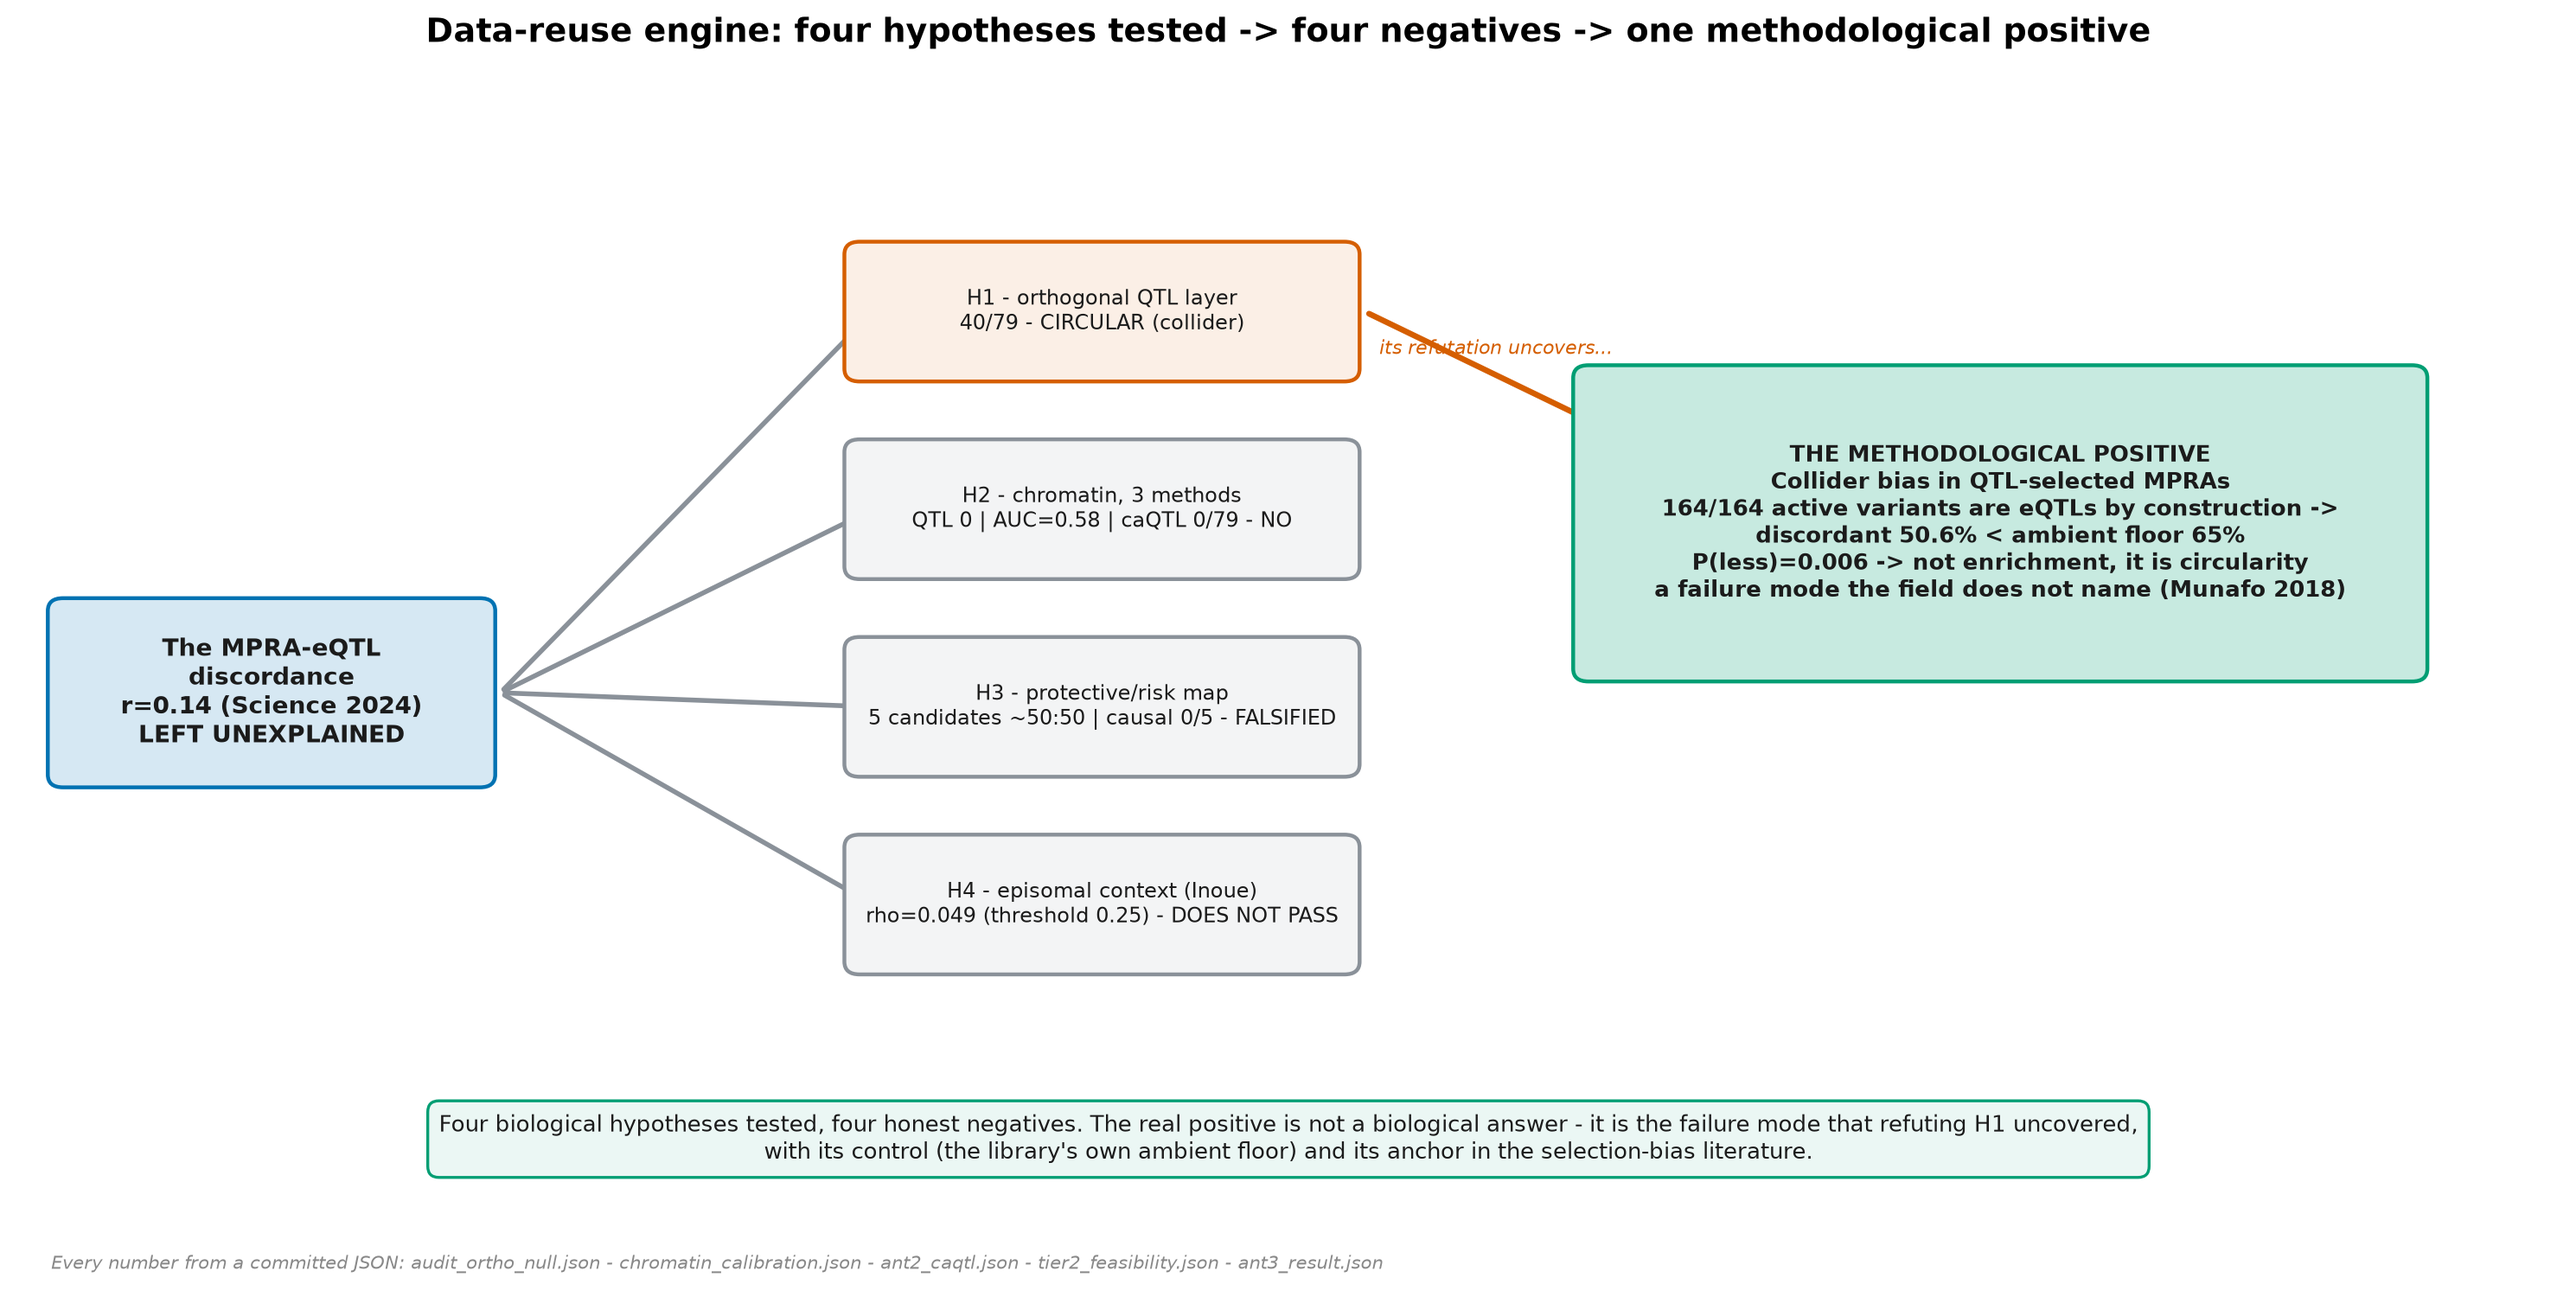
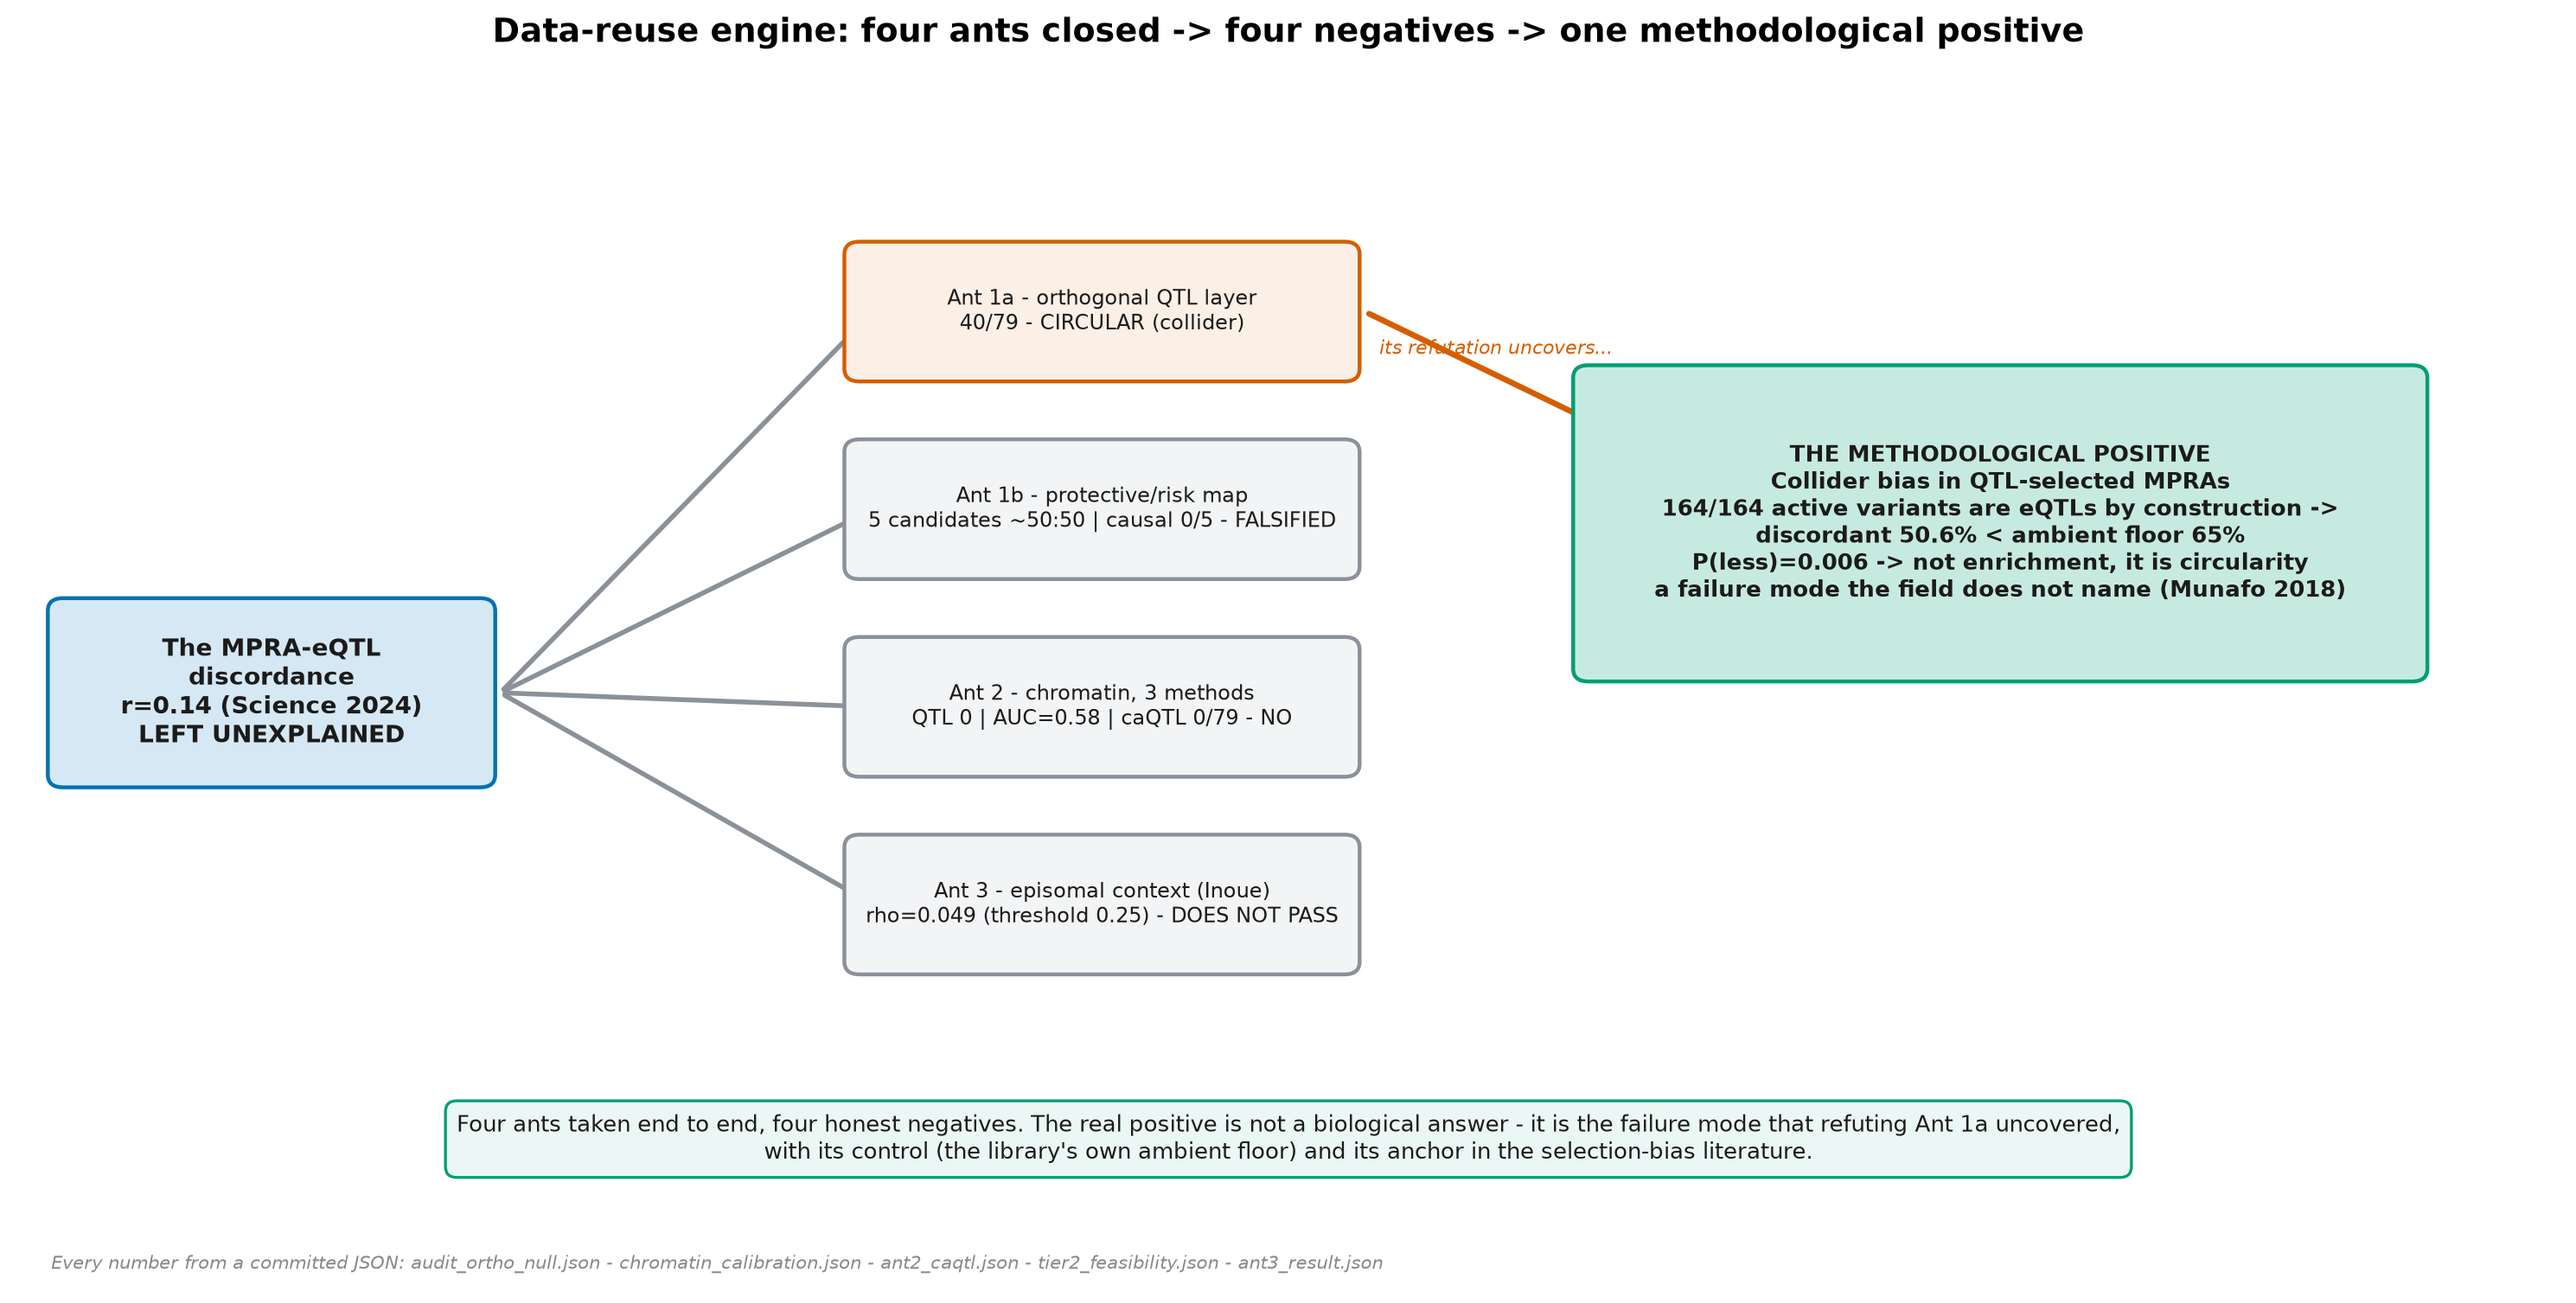
the engine says what it discards, and the funnel says which ant
The name carries both readings now: Descartes for de omnibus dubitandum, and
the discards for what the engine actually produces — most of its output is the
part it threw away.

Three corrections the pre-public audit raised:
  * the funnel figure labelled its boxes H1-H4 while the case study calls them
    ants 1a, 1b, 2 and 3, so a reader could not map one onto the other;
  * the honest-scope bullet and the adoption guide explained the domain layer
    by pointing at "phase 7", which means nothing to a reader who has not read
    the protocol yet;
  * the executor was told to record a known confounder in a ledger this engine
    never defines, creates or ships.

Claude-Session: https://claude.ai/code/session_01SiaMkmZoD2JUUQRNtfKeRj

diff --git a/examples/mpra-eqtl-discordance/figures/figure_funnel.py b/examples/mpra-eqtl-discordance/figures/figure_funnel.py
@@ -23,7 +23,7 @@ BLUE,GREEN,VERM,GRAY="#0072B2","#009E73","#D55E00","#8a9199"; INK="#1b1b1b"
 def tint(hx,a=0.16):
     r,g,b=int(hx[1:3],16),int(hx[3:5],16),int(hx[5:7],16); return (1-a+a*r/255,1-a+a*g/255,1-a+a*b/255)
 fig,ax=plt.subplots(figsize=(15,7.8)); ax.set_xlim(0,15); ax.set_ylim(0,8.2); ax.axis("off")
-fig.suptitle("Data-reuse engine: four hypotheses tested -> four negatives -> one methodological positive",
+fig.suptitle("Data-reuse engine: four ants closed -> four negatives -> one methodological positive",
              fontsize=13.5,fontweight="bold",y=0.99)
 def box(xc,yc,w,h,t,fc,ec,fs=9,bold=False,tc=INK):
     ax.add_patch(FancyBboxPatch((xc-w/2,yc-h/2),w,h,boxstyle="round,pad=0.02,rounding_size=0.09",
@@ -39,17 +39,17 @@ box(1.5,4.2,2.6,1.3,"The MPRA-eQTL\ndiscordance\nr=0.14 (Science 2024)\nLEFT UNE
 # four hypotheses, all negative (middle column)
 xh=6.4
 hyps=[
- (6.9, f"H1 - orthogonal QTL layer\n{disc_hit}/{disc_n} - CIRCULAR (collider)"),
- (5.5, f"H2 - chromatin, 3 methods\nQTL 0 | AUC={auc:.2f} | caQTL {ca_hit}/{ca_n} - NO"),
- (4.1, f"H3 - protective/risk map\n{nprot} candidates ~50:50 | causal {mr}/{nprot} - FALSIFIED"),
- (2.7, f"H4 - episomal context (Inoue)\nrho={rho:.3f} (threshold 0.25) - DOES NOT PASS"),
+ (6.9, f"Ant 1a - orthogonal QTL layer\n{disc_hit}/{disc_n} - CIRCULAR (collider)"),
+ (5.5, f"Ant 1b - protective/risk map\n{nprot} candidates ~50:50 | causal {mr}/{nprot} - FALSIFIED"),
+ (4.1, f"Ant 2 - chromatin, 3 methods\nQTL 0 | AUC={auc:.2f} | caQTL {ca_hit}/{ca_n} - NO"),
+ (2.7, f"Ant 3 - episomal context (Inoue)\nrho={rho:.3f} (threshold 0.25) - DOES NOT PASS"),
 ]
 for y,t in hyps:
     arrow(2.85,4.2,xh-1.35,y,GRAY)
     ec=VERM if y==6.9 else GRAY
     box(xh,y,3.0,0.95,t,tint(ec,0.10),ec,fs=8.6)
 
-# the refutation of H1 uncovers the positive
+# the refutation of ant 1a uncovers the positive
 arrow(7.95,6.9,9.5,6.0,VERM,lw=2.4,lab="its refutation uncovers...")
 box(11.7,5.4,5.0,2.2,
     f"THE METHODOLOGICAL POSITIVE\nCollider bias in QTL-selected MPRAs\n"
@@ -59,12 +59,12 @@ box(11.7,5.4,5.0,2.2,
     tint(GREEN,0.22),GREEN,fs=9.2,bold=True)
 
 # footer note
-ax.text(7.5,0.9,"Four biological hypotheses tested, four honest negatives. The real positive is not a biological answer - "
-        "it is the failure mode that refuting H1 uncovered,\nwith its control (the library's own ambient floor) and its anchor in the selection-bias literature.",
+ax.text(7.5,0.9,"Four ants taken end to end, four honest negatives. The real positive is not a biological answer - "
+        "it is the failure mode that refuting Ant 1a uncovered,\nwith its control (the library's own ambient floor) and its anchor in the selection-bias literature.",
         ha="center",fontsize=9.3,color=INK,
         bbox=dict(boxstyle="round,pad=0.5",facecolor=tint(GREEN,0.08),edgecolor=GREEN,lw=1.2))
 ax.text(0.2,0.12,"Every number from a committed JSON: audit_ortho_null.json - chromatin_calibration.json - ant2_caqtl.json - tier2_feasibility.json - ant3_result.json",
         fontsize=7.4,color="#888",style="italic")
 fig.tight_layout(rect=[0,0.03,1,0.97])
 fig.savefig(OUT,dpi=200,bbox_inches="tight",facecolor="white")
-print(f"wrote {OUT}  (H1 {disc_hit}/{disc_n} circular; H2 AUC={auc:.2f}/caQTL {ca_hit}/{ca_n}; H3 MR {mr}/{nprot}; H4 ρ={rho:.3f}; collider P={Pcoll:.3f})")
+print(f"wrote {OUT}  (1a {disc_hit}/{disc_n} circular; 1b MR {mr}/{nprot}; 2 AUC={auc:.2f}/caQTL {ca_hit}/{ca_n}; 3 ρ={rho:.3f}; collider P={Pcoll:.3f})")

diff --git a/README.md b/README.md
@@ -1,4 +1,4 @@
-# Descartes
+# Descartes — *the discards*
 
 **A discovery engine for data reuse.** Take public data that already exists, and produce a closed, reproducible finding the original study left open — one hypothesis at a time, with every finding verified real-vs-false before it is believed.
 
@@ -96,7 +96,7 @@ Then pre-register your first ant in `ANT_REGISTRY.md` **before touching any data
 
 **ANT** is the engine. An **ant** is one unit of its work: a single hypothesis taken end to end, pre-registered before the data is touched and closed either positive or negative-diagnostic. One ant at a time — never five half-done.
 
-**Descartes** is the executor's proper name, after *de omnibus dubitandum* — everything must be doubted.
+**Descartes** is the executor's proper name, after *de omnibus dubitandum* — everything must be doubted. In Spanish, *descartes* also reads as **the discards**: what a hand throws away. Both readings are the engine — it doubts everything it produces, and most of what it produces is what it discarded.
 
 ---
 
@@ -104,7 +104,7 @@ Then pre-register your first ant in `ANT_REGISTRY.md` **before touching any data
 
 - **This is an orchestration pattern with a human in the loop**, not an autonomous research system. The human supplies domain judgement and decides which hypothesis is worth running.
 - **The engine finds nothing by itself.** It tests what it is given and refuses to believe the result too early. Most of its outputs are negatives, and that is the point.
-- **The domain layer does not transfer.** Phase 7 — turning a table into something that means something in your field — is the human's contribution, and the protocol assumes it exists.
+- **Translating a verified table into a finding that means something in your field is the human's job**, not the engine's. The engine closes the loop; it does not know what the result means in your discipline.
 - **Two search passes reduce error; they do not eliminate it.** There could always be a third layer.
 
 ## License

diff --git a/agents/data-reuse-discovery-ant.md b/agents/data-reuse-discovery-ant.md
@@ -120,7 +120,7 @@ Order is the safeguard (never overrideable — it is the whole point):
 1. **Form your OWN independent view FIRST** — run your pass and decide what YOU find worth pursuing, WITHOUT looking at the other agent. Independent doubt is your value; if you read theirs first, your agreement means nothing.
 2. **THEN read the peer workspace, if one is configured for this project.** Best-effort: if no peer is configured, or the path is absent/empty, note it in `OPEN_QUESTIONS.md` (BLOCKED → future work) and continue — it is never a dependency that stalls the loop (Freeze scope, TOP RULE 9).
 3. **Contrast, do not copy.** Mark where you CONVERGE (independent convergence = strong signal — still SUSPECT until you verify it yourself), where you DIFFER, and be extra skeptical of anything it flagged as un-audited / shared-context. Re-chew every borrowed opportunity through your own scrutiny.
-4. If a peer-sourced opportunity inherits a **known confounder already logged for this project**, record it in `lecciones_aprendidas.md` so it is not re-litigated.
+4. If a peer-sourced opportunity inherits a **known confounder already logged for this project**, record it in `CONFLICTS.md` so it is not re-litigated.
 
 ---
 

diff --git a/docs/ADOPTING.md b/docs/ADOPTING.md
@@ -43,4 +43,4 @@ Fire the executor for one pass. Read the handoff. Fire again. See [`../COORDINAT
 
 ## What does not transfer
 
-The phases are generic; **the domain layer is not.** Phase 7's translation step — turning a table into something that means something in your field — is the part no agent supplies. That is the human's contribution, and the engine is built on the assumption that it exists.
+The phases are generic; **the domain layer is not.** Translating a verified table into a finding that means something in your field is the human's job, not the engine's — and the engine is built on the assumption that someone supplies it.
